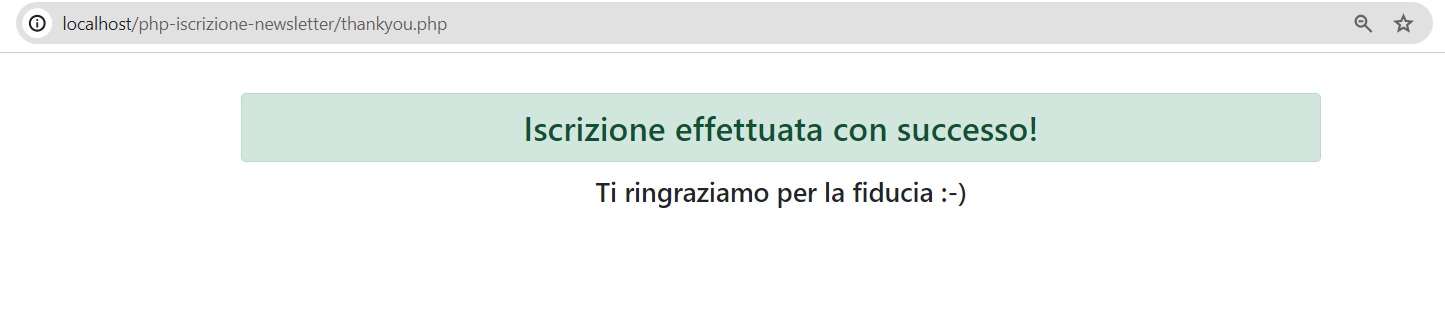
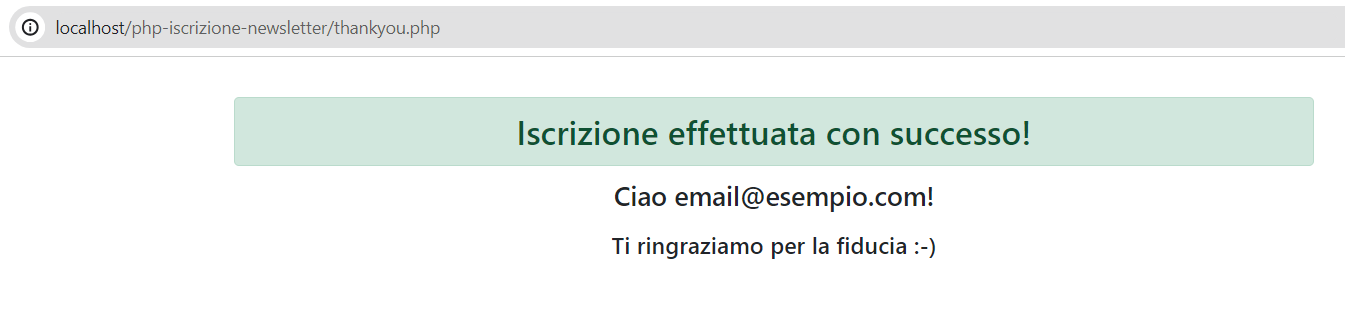
update: README

Changed region(s): [[0.1561, 0.2621, 0.9993, 0.6699], [0.0, 0.0, 1.0, 0.2039], [0.4372, 0.7573, 0.687, 0.8447]]

diff --git a/thankyou.php b/thankyou.php
@@ -18,7 +18,7 @@ $useremail = $_SESSION['savedEmail'];
 
     <div class="container text-center my-5">
         <h1 class="alert alert-success">Iscrizione effettuata con successo!</h1>
-        <h2>Ciao <?php echo $useremail ?>!</h2>
+        <h2 class="mb-4">Ciao <?php echo $useremail ?>!</h2>
         <h3>Ti ringraziamo per la fiducia :-) </h3>
     </div>
 
